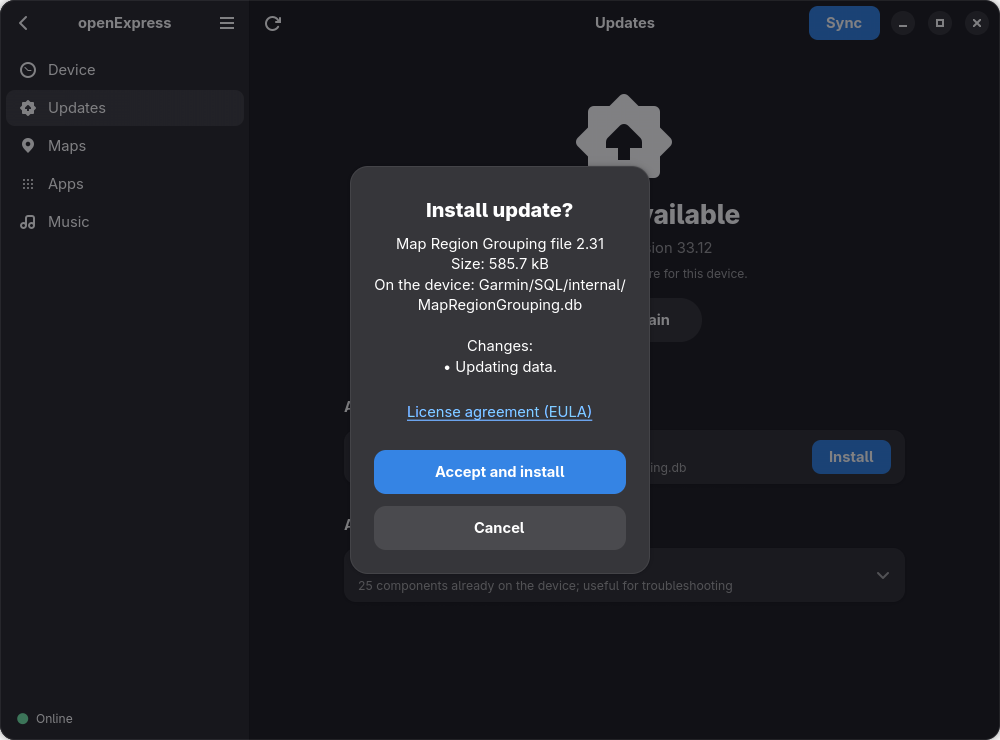
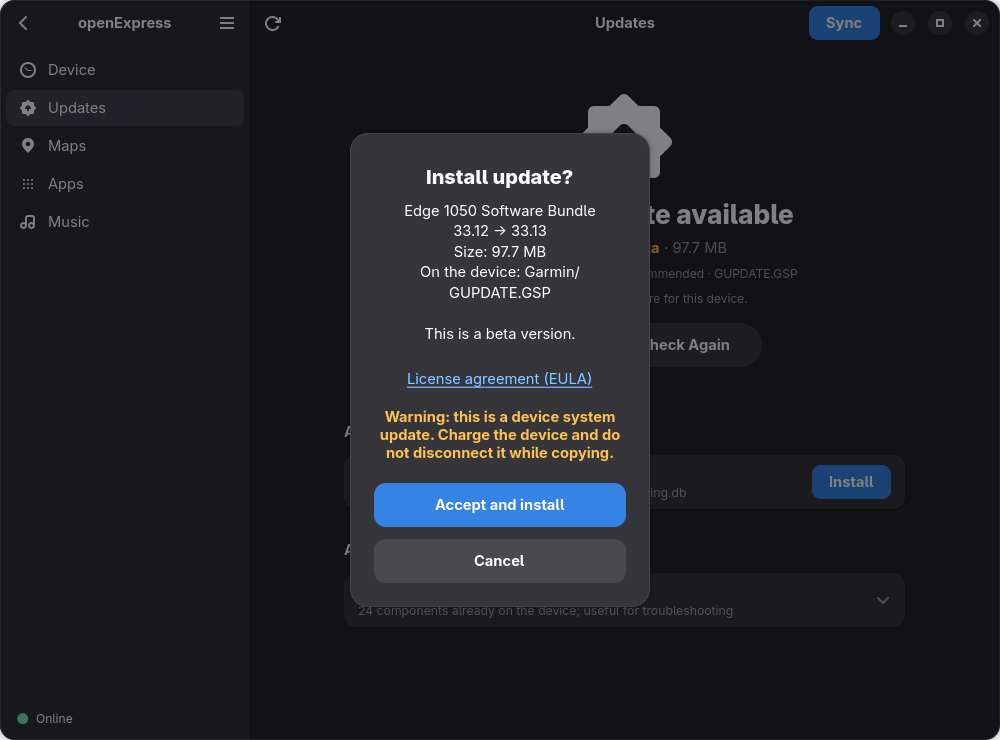
Screenshots of a beta system update

diff --git a/README.md b/README.md
@@ -211,11 +211,16 @@ connected device; no login is needed.
   only after a clean eject. Until it is unplugged, openExpress does not open the ejected
   drive again.
 
+<p align="center">
+  <img src="docs/screenshots/updates-beta.png" width="700"
+       alt="The Updates page: a beta system update offered for an Edge 1050">
+</p>
+
 Installing a system update was tested on an Edge 1050 (beta 33.12, 14 October 2026).
 
 <p align="center">
   <img src="docs/screenshots/update-confirm.png" width="700"
-       alt="The question before an update: size, place on the device, changes and license link">
+       alt="The question before a system update: versions, license link and warning">
 </p>
 
 ### Maps of your own
